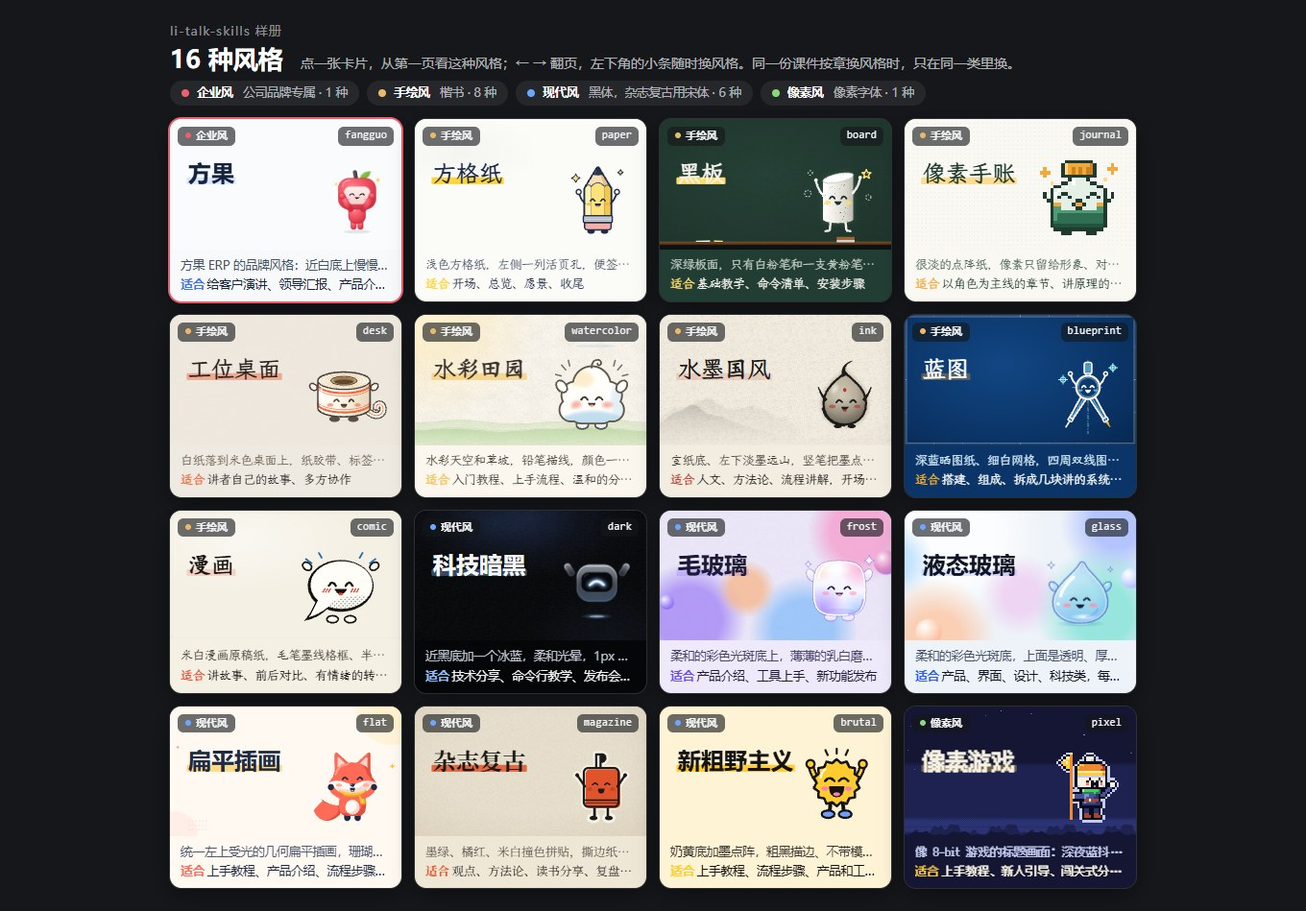
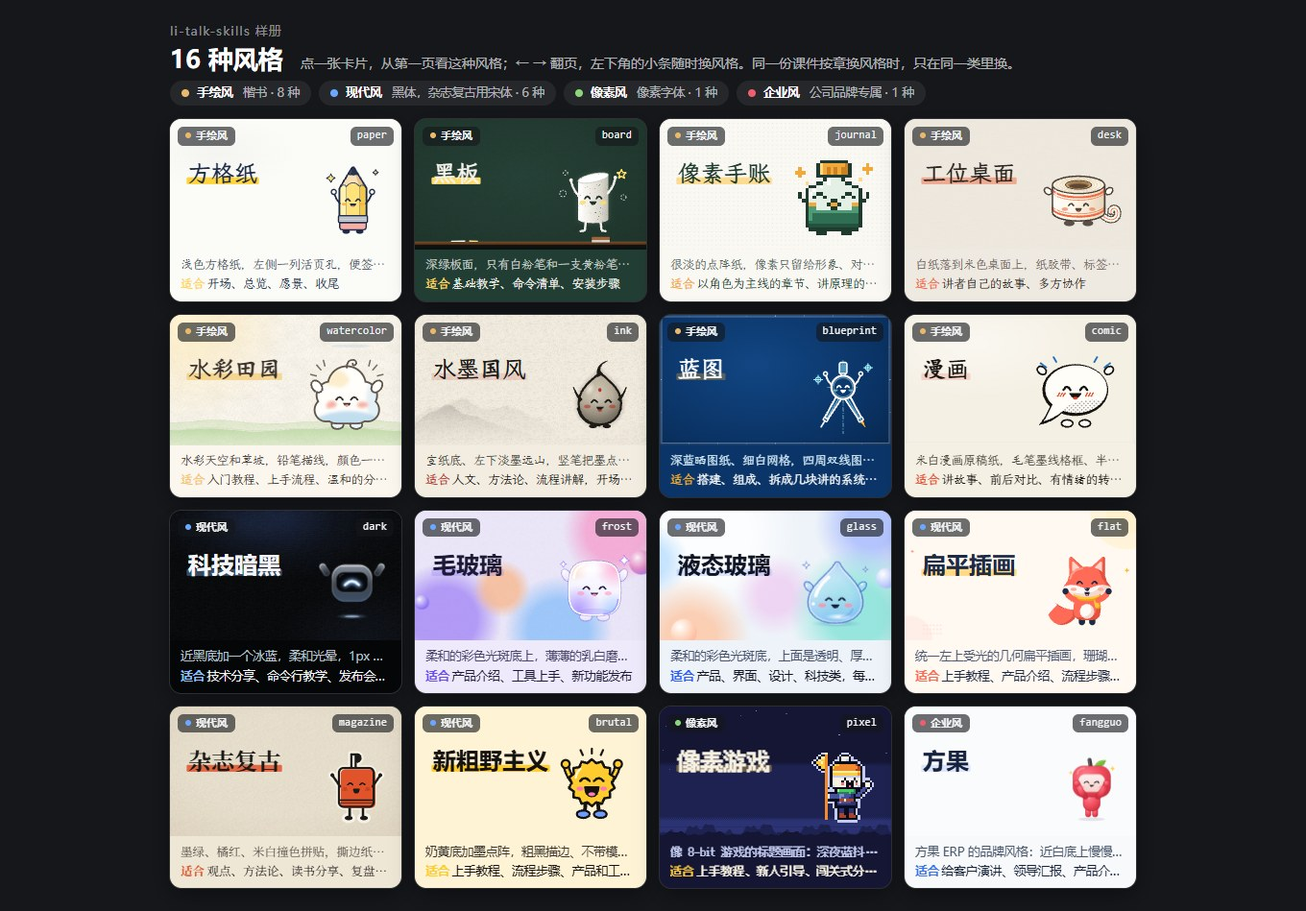
方果风（企业风）放到最后弱化：风格清单、styles 命令、样册总览和换风格小条、使用说明、风格说明、README 都按手绘风、现代风、像素风、企业风排；样册里去掉方果卡片的红框强调；重拍样册首图

diff --git a/skills/li-talk-skills/template/gallery.html b/skills/li-talk-skills/template/gallery.html
@@ -9,7 +9,7 @@
        地址带 ?scene=<键名>、这种风格有自己的样板时，样册只放它自己的样板页（见下面引入章节前后的两段小脚本）。
      - 通用样板页 samples/samples.js、.css（封面、清单、步骤、结尾 4 页）：只用通用组件，哪种风格都能用。
        地址不带 ?scene=，或者这种风格还没有自己的样板时放它；它保持通用，不加只有某种风格认的东西。
-     直接打开（地址不带 ?scene=、?selftest、#页/拍）先显示风格总览：每种风格一张卡片，按类分组（企业风、手绘风、现代风、像素风），点一张就用 ?scene=<键名> 从第一页看。
+     直接打开（地址不带 ?scene=、?selftest、#页/拍）先显示风格总览：每种风格一张卡片，按类分组（手绘风、现代风、像素风、企业风），点一张就用 ?scene=<键名> 从第一页看。
      地址加 ?scene=<键名> 换成那个风格看；左下角的小条点一下也是这样换（一律回到第一页、播开场），点「全部风格」回到总览。
      不写 li-talk-mascot：形象跟着风格走（每种风格用自己的默认形象，见 scenes/index.json）。
      引入顺序照入口模板 index.html（接口约定 G）；通用样板页放在两对「章节」注释之间，不开浏览器的 check 读模板目录时查的是它们；
@@ -63,7 +63,7 @@
   .gl-bar .gl-hint{display:none}
 }
 
-/* 风格总览：直接打开样册时的首页，铺满窗口、盖在课件上面；每种风格一张卡片，按类分组（企业风、手绘风、现代风、像素风）。
+/* 风格总览：直接打开样册时的首页，铺满窗口、盖在课件上面；每种风格一张卡片，按类分组（手绘风、现代风、像素风、企业风）。
    卡片套 data-scene，风格的 CSS 变量（底色、墨色、强调色、字体）直接生效；上半截是缩小的 1920×1080 舞台，
    放这种风格的背景层（从引擎建好的背景层复制）、风格名和形象；下半截写「样子」和「适合讲什么」。
    类名用 sv- 开头，免得撞上风格自己的类名（液态玻璃用了 gl-） */
@@ -119,7 +119,6 @@
 .sv-grid .sv-look,.sv-grid .sv-fit{display:block;overflow:hidden;white-space:nowrap;text-overflow:ellipsis}
 .sv-tag{position:absolute;left:8px;top:8px;padding:1px 8px 2px;border-radius:6px;background:rgba(20,22,26,.62);color:#F1F3F5;font:600 11px/1.5 system-ui,"Microsoft YaHei",sans-serif}
 .sv-tag::before{content:"";display:inline-block;width:6px;height:6px;margin-right:5px;border-radius:50%;background:var(--fc);vertical-align:1px}
-.sv-card.sv-corp{box-shadow:0 0 0 2px #ED5E6E,0 8px 22px rgba(0,0,0,.35)}
 @media (max-width:999px){.sv-grid{grid-template-columns:repeat(3,minmax(0,1fr))}}
 @media (max-width:699px){.sv-grid{grid-template-columns:repeat(2,minmax(0,1fr))}}
 @media (max-width:420px){.sv-grid{grid-template-columns:1fr}}
@@ -201,7 +200,6 @@ if (window.LI_TALK_SAMPLES) (function (b) {
 /* 风格总览用的风格说明：从 scenes/index.json 抄来的 key、label、family、mascot、look、fit。
    样册是双击打开的本地文件，不能 fetch，所以写在这里；改了 index.json 要同步改这里（test/gallery.test.mjs 会对照） */
 window.LI_TALK_STYLES = [
-  {"key":"fangguo","label":"方果","family":"corp","mascot":"fangfang","look":"方果 ERP 的品牌风格：近白底上慢慢流动的淡蓝柔光和网格，纯白大圆角卡片，品牌蓝主色，大气的大数字和图表，左上角带方果 Logo","fit":"给客户演讲、领导汇报、产品介绍、经营数据"},
   {"key":"paper","label":"方格纸","family":"hand","mascot":"jianjian","look":"浅色方格纸，左侧一列活页孔，便签翘起纸角","fit":"开场、总览、愿景、收尾"},
   {"key":"board","label":"黑板","family":"hand","mascot":"shasha","look":"深绿板面，只有白粉笔和一支黄粉笔，翻页用板擦","fit":"基础教学、命令清单、安装步骤"},
   {"key":"journal","label":"像素手账","family":"hand","mascot":"diandian","look":"很淡的点阵纸，像素只留给形象、对话框和节拍格","fit":"以角色为主线的章节、讲原理的示意图"},
@@ -216,12 +214,13 @@ window.LI_TALK_STYLES = [
   {"key":"flat","label":"扁平插画","family":"modern","mascot":"xiaoye","look":"统一左上受光的几何扁平插画，珊瑚、明黄、墨蓝三组配色，组件右下一道深色厚度、投影落向右下","fit":"上手教程、产品介绍、流程步骤、新人或非技术听众"},
   {"key":"magazine","label":"杂志复古","family":"modern","mascot":"xiaoqian","look":"墨绿、橘红、米白撞色拼贴，撕边纸、胶带、套印错位，宋体大标题","fit":"观点、方法论、读书分享、复盘总结"},
   {"key":"brutal","label":"新粗野主义","family":"modern","mascot":"pengpeng","look":"奶黄底加墨点阵，粗黑描边、不带模糊的硬阴影，黄粉蓝三种色块，卡片「砸」下来","fit":"上手教程、流程步骤、产品和工具介绍、内部分享"},
-  {"key":"pixel","label":"像素游戏","family":"pixel","mascot":"xiaoqi","look":"像 8-bit 游戏的标题画面：深夜蓝抖动夜空和远山，全页对齐 4px 网格、只用 16 色，金色像素大标题","fit":"上手教程、新人引导、闯关式分步、轻松的团队分享"}
+  {"key":"pixel","label":"像素游戏","family":"pixel","mascot":"xiaoqi","look":"像 8-bit 游戏的标题画面：深夜蓝抖动夜空和远山，全页对齐 4px 网格、只用 16 色，金色像素大标题","fit":"上手教程、新人引导、闯关式分步、轻松的团队分享"},
+  {"key":"fangguo","label":"方果","family":"corp","mascot":"fangfang","look":"方果 ERP 的品牌风格：近白底上慢慢流动的淡蓝柔光和网格，纯白大圆角卡片，品牌蓝主色，大气的大数字和图表，左上角带方果 Logo","fit":"给客户演讲、领导汇报、产品介绍、经营数据"}
 ];
 </script>
 <script>
 /* 样册的两样东西（都不属于课件，自检模式 ?selftest 下都不放）：
-   1. 风格总览：地址不带 ?scene=、?selftest、#页/拍 时显示，盖在课件上面。每种风格一张卡片，按类分组（企业风、手绘风、现代风、像素风）；
+   1. 风格总览：地址不带 ?scene=、?selftest、#页/拍 时显示，盖在课件上面。每种风格一张卡片，按类分组（手绘风、现代风、像素风、企业风）；
       点一张就用 ?scene=<键名> 重新打开，从第一页看（带开场）。开着总览时课件不接键盘和点击，
       也不让引擎往地址里写 #页/拍（不然刷新一下总览就没了）。
    2. 换风格的小条：点一个风格，就用 ?scene=<键名> 重新打开，回到第一页、播开场（地址里的 #页/拍 去掉）；
@@ -234,7 +233,7 @@ window.LI_TALK_STYLES = [
   var I = Deck._, FAMILY = I.FAMILY || {};
   var keys = Object.keys(I.SCENES).filter(function (k) { return k !== 'plain'; });
   if (!keys.length) return;
-  var FAMS = [['corp', '企业风', '公司品牌专属'], ['hand', '手绘风', '楷书'], ['modern', '现代风', '黑体，杂志复古用宋体'], ['pixel', '像素风', '像素字体']];
+  var FAMS = [['hand', '手绘风', '楷书'], ['modern', '现代风', '黑体，杂志复古用宋体'], ['pixel', '像素风', '像素字体'], ['corp', '企业风', '公司品牌专属']];
   // 在线编辑（serve 打开的，地址带 ?edit=口令）时，换风格、回总览都带着口令，不然一换风格就退出编辑了
   var edit = qs.get('edit'), keep = edit ? '&edit=' + encodeURIComponent(edit) : '';
   var home = location.href.split(/[?#]/)[0] + (edit ? '?edit=' + encodeURIComponent(edit) : '');   // 不带 scene、# 的地址：打开就是总览
@@ -274,7 +273,7 @@ window.LI_TALK_STYLES = [
     head.appendChild(el('h1', '', known.length + ' 种风格'));
     head.appendChild(el('p', '', '点一张卡片，从第一页看这种风格；← → 翻页，左下角的小条随时换风格。同一份课件按章换风格时，只在同一类里换。'));
     wrap.appendChild(head);
-    // 一屏放下全部风格：所有卡片排在一个网格里，按类的顺序（企业风、手绘风、现代风、像素风），每张左上角标出属于哪一类；
+    // 一屏放下全部风格：所有卡片排在一个网格里，按类的顺序（手绘风、现代风、像素风、企业风），每张左上角标出属于哪一类；
     // 列数按窗口算（见下面的 fit），窗口太矮放不下时才滚动
     var legend = el('div', 'sv-legend');
     var grid = el('div', 'sv-grid');

diff --git a/skills/li-talk-skills/references/styles.md b/skills/li-talk-skills/references/styles.md
@@ -23,10 +23,10 @@
 
 | 家 | 字体 | 这一版有的风格 |
 |---|---|---|
-| 企业风 | 系统黑体，数字用 Bahnschrift / DIN | 方果 `fangguo`（公司品牌专属，只能单独用） |
 | 手绘风 | 楷书（霞鹜文楷） | 方格纸 `paper`、黑板 `board`、像素手账 `journal`、工位桌面 `desk`、水彩田园 `watercolor`、水墨国风 `ink`、蓝图 `blueprint`、漫画 `comic` |
 | 现代风 | 系统黑体（杂志复古用宋体），命令用等宽字 | 科技暗黑 `dark`、毛玻璃 `frost`、液态玻璃 `glass`、扁平插画 `flat`、杂志复古 `magazine`、新粗野主义 `brutal` |
 | 像素风 | 中文像素字体（缝合像素字体，选了才带进课件） | 像素游戏 `pixel` |
+| 企业风 | 系统黑体，数字用 Bahnschrift / DIN | 方果 `fangguo`（公司品牌专属，只能单独用） |
 
 像素手账 `journal` 名字里有「像素」，但正文是楷书，属于手绘风；整页像素风的是像素风的像素游戏 `pixel`，它的字体和 4px 网格自成一套，只能单独用。
 
@@ -247,6 +247,26 @@
 - **动效**：第一次打开时有约 1 秒的开场（主题行的章节块砸下、标题一个字一个字砸下来、节拍按钮盖下）；卡片、小格、步骤、终端、截图、命令从上面「砸」下来，落地压进阴影再弹回、两侧甩出冲击线，已经落定的卡片被震一下；标签啪地拍上，正文弹起；悬停时组件离阴影远一点、朝鼠标那侧歪一点，按下压进阴影；复制时按钮按到底闪黄、贴上「已复制」；退一拍时卡片被捏起来往上抛走；翻页时旧页被一把推开、新页冲进来。
 - **自带出场名**：`slam`、`smash`、`slap`、`snap`。只在这种风格里认，页面里别写（换风格会报提醒），风格会自己默认用。
 
+### 像素风
+
+#### 像素游戏 `pixel`
+
+- **样子**：一块 8-bit 游戏的标题画面。深夜蓝的抖动渐变夜空、几颗像素星星、两层像素远山；所有东西对齐同一张 4px 网格，只用 16 色。字是中文像素字体（缝合像素字体）；大标题是金色抖动字面配深色字板和锈红厚度；卡片是 RPG 窗口（暖白像素框、四角切一格、右下硬阴影）；重点词是金色加一格像素下划线；节拍指示是经验条；可复制的命令是一颗像素按钮。
+- **适合**：上手教程、新人引导、闯关式分步、轻松的团队分享。
+- **不适合**：严肃汇报、财务数据、文字很密的页。
+- **脾气**：
+  - 字大：正文、卡片标题、命令、标签都是 48px（一个字点占 4px 一格），大标题和金句 96px；主题行、页码、小格编号、图注、「已复制」、形象气泡是 24px。大标题 15 个字以内，长了会换行压到一句话解释。一句话解释在 y 220，30 字以内。内容从 y 290 左右开始。卡片宽 W 时一行约 (W−80)÷48 个字。命令一个英文字符约 24px，一行 60 个字符以内。从别的风格换过来一定重跑自检。
+  - 页面里自己写字号时尽量用 12 的倍数（24、48、96）：像素字体是 12px 点阵，别的字号点会大小不匀。
+  - 只有 16 色。卡片颜色 `t-*` 只换窗框颜色，窗口本身都是深蓝。页面 CSS 别再引入别的颜色、渐变、圆角。
+  - 自成一家：字体、网格自成一套，不和手绘风、现代风混用。
+  - 课件里带一份缝合像素字体（`vendor/fonts/pixel/`，约 679KB，OFL 许可），`new` 选了 pixel 时自动带上。搭好骨架后再换成像素游戏（第 6 节），第 b 步还要把 `〈本 skill 目录〉/template/vendor/fonts/pixel/` 整个复制到 `〈课件目录〉/vendor/fonts/pixel/`，不然字会退回系统黑体、变宽、可能溢出。
+  - 深色底投到幕布上容易发灰：正文已经用暖白，每段字带一格深色硬投影。
+  - 窗口缩放不是整数倍时，像素会被重新采样，不再绝对锐利。舞台缩得很小（很小的窗口、手机竖屏阅读模式）时，线稿和圈注退回普通直线。
+  - 页码和经验条的禁区是 x 1300–1872、y 12–84。
+- **默认形象**：小旗 `xiaoqi`（戴毛线帽、背三角旗的像素小向导；浅紫亮边画在像素里，引擎不再加描边）。
+- **动效**：第一次打开时有约 1 秒的开场（星星分三步亮起、远山逐格升起、大标题一个字一个字掉下来落位、角上一闪，第 0 拍逐字打出）。所有出场都逐格走、不做半透明的平滑过渡：卡片类组件像 RPG 窗口先横向拉开、再竖向展开，字逐字打出；金句掉下来、标签蹦出来；重点词反白闪两下后落定；进一拍时经验条灌满一格；复制时命令按钮顶出一枚旋转的像素金币；退一拍时窗口压扁收没；翻页时新页逐格从一边擦出来。
+- **自带出场名**：`pxwin`、`pxtype`、`pxdrop`、`pxpop`、`pxtitle`。只在这种风格里认，页面里别写（换风格会报提醒），风格会自己默认用。
+
 ### 企业风
 
 #### 方果 `fangguo`
@@ -293,26 +313,6 @@
 - **真图和示意图**：真截图用 `figure.shot`，图注写「真图：……」；没有真图的界面（对话窗、终端、样册、演讲者视图、课件目录）用 `.fg-win`、`.term` 画出来，在右上角外沿贴一枚 `<span class="abs fg-stamp">示意</span>`，下面写一句 `<p class="abs fg-capt"><b>示意</b>这张图是什么</p>`。每张图都要有一句说明。
 - **版式工具**：出血底板 `<i class="fg-bleed" hidden></i>` 有四种——默认右边一块浅蓝、`fg-left` 左边、`fg-slant` 右边一块斜切的浅蓝、`fg-wash` 整屏一层淡蓝晕染（金句页用）；金句 `<p class="fg-quote">…<span class="fg-hl">词</span>…</p>`（112px 深墨色大字，上面一道品牌蓝渐变短线，关键词是品牌蓝渐变，一页一句）；一组淡蓝同心细圆环装饰 `<i class="fg-deco"></i>`（不放字）。
   - 指标卡 `.fg-kpi`、渐变圆角图标 `.fg-ico[data-fg-ico="box"]`（`data-fg-tone`：blue、teal、coral、purple、amber、red）、白色界面窗 `.fg-win`（加 `fg-float` 是倾斜 2° 的浮窗）、折角标签 `.fg-fold`、小胶囊 `.fg-chip`、横小卡 `.fg-mini`、功能卡 `.fg-feats > .fg-fc`、平台横栏 `.fg-plat`、流程清单 `.fg-flow > .fg-step`（当前一步点亮）、封面 `.fg-cover`、章节页 `.fg-chapter` 加 `.fg-bigno`、关于我们 `.fg-about` 加二维码卡 `.fg-qr[data-fg-qr="wechat|douyin|business"]` 和联系方式 `.fg-contact`。
-
-### 像素风
-
-#### 像素游戏 `pixel`
-
-- **样子**：一块 8-bit 游戏的标题画面。深夜蓝的抖动渐变夜空、几颗像素星星、两层像素远山；所有东西对齐同一张 4px 网格，只用 16 色。字是中文像素字体（缝合像素字体）；大标题是金色抖动字面配深色字板和锈红厚度；卡片是 RPG 窗口（暖白像素框、四角切一格、右下硬阴影）；重点词是金色加一格像素下划线；节拍指示是经验条；可复制的命令是一颗像素按钮。
-- **适合**：上手教程、新人引导、闯关式分步、轻松的团队分享。
-- **不适合**：严肃汇报、财务数据、文字很密的页。
-- **脾气**：
-  - 字大：正文、卡片标题、命令、标签都是 48px（一个字点占 4px 一格），大标题和金句 96px；主题行、页码、小格编号、图注、「已复制」、形象气泡是 24px。大标题 15 个字以内，长了会换行压到一句话解释。一句话解释在 y 220，30 字以内。内容从 y 290 左右开始。卡片宽 W 时一行约 (W−80)÷48 个字。命令一个英文字符约 24px，一行 60 个字符以内。从别的风格换过来一定重跑自检。
-  - 页面里自己写字号时尽量用 12 的倍数（24、48、96）：像素字体是 12px 点阵，别的字号点会大小不匀。
-  - 只有 16 色。卡片颜色 `t-*` 只换窗框颜色，窗口本身都是深蓝。页面 CSS 别再引入别的颜色、渐变、圆角。
-  - 自成一家：字体、网格自成一套，不和手绘风、现代风混用。
-  - 课件里带一份缝合像素字体（`vendor/fonts/pixel/`，约 679KB，OFL 许可），`new` 选了 pixel 时自动带上。搭好骨架后再换成像素游戏（第 6 节），第 b 步还要把 `〈本 skill 目录〉/template/vendor/fonts/pixel/` 整个复制到 `〈课件目录〉/vendor/fonts/pixel/`，不然字会退回系统黑体、变宽、可能溢出。
-  - 深色底投到幕布上容易发灰：正文已经用暖白，每段字带一格深色硬投影。
-  - 窗口缩放不是整数倍时，像素会被重新采样，不再绝对锐利。舞台缩得很小（很小的窗口、手机竖屏阅读模式）时，线稿和圈注退回普通直线。
-  - 页码和经验条的禁区是 x 1300–1872、y 12–84。
-- **默认形象**：小旗 `xiaoqi`（戴毛线帽、背三角旗的像素小向导；浅紫亮边画在像素里，引擎不再加描边）。
-- **动效**：第一次打开时有约 1 秒的开场（星星分三步亮起、远山逐格升起、大标题一个字一个字掉下来落位、角上一闪，第 0 拍逐字打出）。所有出场都逐格走、不做半透明的平滑过渡：卡片类组件像 RPG 窗口先横向拉开、再竖向展开，字逐字打出；金句掉下来、标签蹦出来；重点词反白闪两下后落定；进一拍时经验条灌满一格；复制时命令按钮顶出一枚旋转的像素金币；退一拍时窗口压扁收没；翻页时新页逐格从一边擦出来。
-- **自带出场名**：`pxwin`、`pxtype`、`pxdrop`、`pxpop`、`pxtitle`。只在这种风格里认，页面里别写（换风格会报提醒），风格会自己默认用。
 
 ---
 

diff --git a/README.en.md b/README.en.md
@@ -27,13 +27,13 @@ Hand your topic, notes or script to the AI and get an HTML deck you can present 
 
 ![The gallery home page: all 16 styles on one screen](docs/images/hero.jpg)
 
-<sub>The gallery home page: 16 styles in four groups (corporate, hand-drawn, modern, pixel) on one screen, each with its own mascot. Click a card to step through that style's sample slides.</sub>
+<sub>The gallery home page: 16 styles in four groups (hand-drawn, modern, pixel, corporate) on one screen, each with its own mascot. Click a card to step through that style's sample slides.</sub>
 
 ## Highlights
 
 - **One sentence to start**: a bare topic, scattered notes and screenshots, or a finished script all work. The AI follows a nine-step flow (script, style, layout, animation) and stops at five checkpoints (outline, script, style, first 3 slides, final review) for your OK.
 - **Live editing**: double-click to change text, drag and scale blocks, change font size, colour and beat, undo and redo, all in the browser. Click "Notify AI" and the AI writes the changes back into the source with class names and chapter CSS, re-runs the self-check, and the page reloads.
-- **16 styles, 16 mascots**: four families (corporate, hand-drawn, modern, pixel). Not just colour swaps: each style has its own layouts, components, beat animations, and a mascot that walks around and talks.
+- **16 styles, 16 mascots**: four families (hand-drawn, modern, pixel, corporate). Not just colour swaps: each style has its own layouts, components, beat animations, and a mascot that walks around and talks.
 - **Ready to present**: content appears beat by beat and fades once covered; the presenter view shows notes, the next beat, a timer and rehearsal mode; blackout, laser pointer and slide overview; clickers just work.
 - **Self-check at 5 screen sizes**: a real browser steps through every slide and beat from 1920×1080 down to a phone in portrait, checking overflow, overlap, contrast and font size, and writes a report that even models without vision can act on.
 - **Offline, zero dependencies**: plain HTML; double-click `index.html` to present, no network, nothing to install. Phones switch to a vertical reading mode automatically.
@@ -97,12 +97,6 @@ Four families. A deck can switch styles by chapter, but only within one family. 
 
 A style is more than a color scheme: its layouts, structure and what happens on each beat all follow its own look. Graph Paper corrects in red pen, Blueprint draws an assembly list, Comic tells it in four panels, Pixel Game walks a level map. Each style turns the same topic into 5–6 sample slides, and the AI writes your deck after the samples of the style you pick. The images below show one signature slide per style.
 
-### Corporate (company brand)
-
-| Look | Style | Default mascot | Good for |
-|---|---|---|---|
-| <img src="docs/images/styles/fangguo.jpg" width="240" alt="Fangguo"> | **Fangguo** `fangguo` | Fang Xiaoguo: the company IP, a little fruit with a rounded square head | Client pitches, reports to management, product intros, business numbers |
-
 ### Hand-drawn (Kai script)
 
 | Look | Style | Default mascot | Good for |
@@ -132,6 +126,12 @@ A style is more than a color scheme: its layouts, structure and what happens on 
 | Look | Style | Default mascot | Good for |
 |---|---|---|---|
 | <img src="docs/images/styles/pixel.jpg" width="240" alt="Pixel Game"> | **Pixel Game** `pixel` | Xiaoqi: a pixel guide carrying a pennant | Tutorials, onboarding, level-by-level steps, casual team talks |
+
+### Corporate (company brand)
+
+| Look | Style | Default mascot | Good for |
+|---|---|---|---|
+| <img src="docs/images/styles/fangguo.jpg" width="240" alt="Fangguo"> | **Fangguo** `fangguo` | Fang Xiaoguo: the company IP, a little fruit with a rounded square head | Client pitches, reports to management, product intros, business numbers |
 
 ## Presenting
 

diff --git a/README.md b/README.md
@@ -27,13 +27,13 @@
 
 ![样册首页：16 种风格一屏看完](docs/images/hero.jpg)
 
-<sub>样册首页：16 种风格分企业风、手绘风、现代风、像素风四类，一屏看完，每种都有自己的小形象；点一张卡片就从第一页看这种风格的样板。</sub>
+<sub>样册首页：16 种风格分手绘风、现代风、像素风、企业风四类，一屏看完，每种都有自己的小形象；点一张卡片就从第一页看这种风格的样板。</sub>
 
 ## 亮点
 
 - **一句话生成**：只有一个主题、零散笔记和截图、或现成讲稿，三种起点都能开工。AI 按九步流程写讲稿、选风格、排版、加动效，在提纲、讲稿、风格、试做、过稿五处停下来等你确认。
 - **在线编辑**：在浏览器里双击改字、拖动缩放、改字号颜色和拍号，撤销重做；改完点「通知 AI 修改」，AI 用类名和章节样式写回源码、跑完自检，页面自动刷新。
-- **16 种风格，16 个形象**：企业风、手绘风、现代风、像素风四大家族。不是换配色：每种风格有自己的版式、组件、翻页动作，和一个会走动、会说话的小形象。
+- **16 种风格，16 个形象**：手绘风、现代风、像素风、企业风四大家族。不是换配色：每种风格有自己的版式、组件、翻页动作，和一个会走动、会说话的小形象。
 - **上台就能讲**：一拍一拍地出内容，讲过的自动变淡；演讲者视图看讲词、预告下一拍、计时彩排；黑屏、激光笔、总览跳页，翻页笔直接用。
 - **5 种尺寸自检**：用真浏览器按 1920×1080 到手机竖屏逐页逐拍检查溢出、遮挡、对比度和字号，出中文报告；看不了图的模型也能照着改干净。
 - **离线、零依赖**：纯 HTML，双击 `index.html` 就能放映，不联网、不装软件；手机上自动变成竖屏阅读模式。
@@ -97,12 +97,6 @@ AI 会先问你手上有什么，从三种起点出发：
 
 每种风格不只是换配色：版式、结构和每一拍发生的事都按它自己的样子来，比如方格纸用红笔订正，蓝图画装配清单，漫画画四格，像素游戏走关卡地图。每种风格都把同一个主题做成了 5–6 页样板（方果是公司品牌风格，做了 10 页，含 5 个招牌交互），AI 写课件时照你选的那种写。下表里的图是每种风格的一页招牌页。
 
-### 企业风（公司品牌专属）
-
-| 样子 | 风格 | 默认形象 | 适合讲什么 |
-|---|---|---|---|
-| <img src="docs/images/styles/fangguo.jpg" width="240" alt="方果"> | **方果** `fangguo` | 方小果：公司 IP「方小果」，圆角方脑袋的小果子 | 给客户演讲、领导汇报、产品介绍、经营数据 |
-
 ### 手绘风（楷书）
 
 | 样子 | 风格 | 默认形象 | 适合讲什么 |
@@ -132,6 +126,12 @@ AI 会先问你手上有什么，从三种起点出发：
 | 样子 | 风格 | 默认形象 | 适合讲什么 |
 |---|---|---|---|
 | <img src="docs/images/styles/pixel.jpg" width="240" alt="像素游戏"> | **像素游戏** `pixel` | 小旗：背一面三角旗的像素小向导 | 上手教程、新人引导、闯关式分步、轻松的团队分享 |
+
+### 企业风（公司品牌专属）
+
+| 样子 | 风格 | 默认形象 | 适合讲什么 |
+|---|---|---|---|
+| <img src="docs/images/styles/fangguo.jpg" width="240" alt="方果"> | **方果** `fangguo` | 方小果：公司 IP「方小果」，圆角方脑袋的小果子 | 给客户演讲、领导汇报、产品介绍、经营数据 |
 
 ## 讲的时候
 

diff --git a/skills/li-talk-skills/SKILL.md b/skills/li-talk-skills/SKILL.md
@@ -55,7 +55,7 @@ node "<本 skill 目录>/scripts/li-talk.mjs" guide "<课件目录>"
 
 这是最小可用版，只承诺下面这些：
 
-- **16 种风格**，分四类：企业风 1 种（方果 `fangguo`，公司品牌专属），手绘风 8 种（方格纸 `paper`、黑板 `board`、像素手账 `journal`、工位桌面 `desk`、水彩田园 `watercolor`、水墨国风 `ink`、蓝图 `blueprint`、漫画 `comic`），现代风 6 种（科技暗黑 `dark`、毛玻璃 `frost`、液态玻璃 `glass`、扁平插画 `flat`、杂志复古 `magazine`、新粗野主义 `brutal`），像素风 1 种（像素游戏 `pixel`）。
+- **16 种风格**，分四类：手绘风 8 种（方格纸 `paper`、黑板 `board`、像素手账 `journal`、工位桌面 `desk`、水彩田园 `watercolor`、水墨国风 `ink`、蓝图 `blueprint`、漫画 `comic`），现代风 6 种（科技暗黑 `dark`、毛玻璃 `frost`、液态玻璃 `glass`、扁平插画 `flat`、杂志复古 `magazine`、新粗野主义 `brutal`），像素风 1 种（像素游戏 `pixel`），另有企业风 1 种（方果 `fangguo`，公司品牌专属）。
 - **16 个形象**：尖尖 `jianjian`（方格纸）、沙沙 `shasha`（黑板）、点点 `diandian`（像素手账）、卷卷 `juanjuan`（工位桌面）、朵朵 `duoduo`（水彩田园）、墨丸 `mowan`、圈圈 `quanquan`、叨叨 `daodao`、微光 `weiguang`、小雾 `xiaowu`、透透 `toutou`、小页 `xiaoye`、小铅 `xiaoqian`、砰砰 `pengpeng`、小旗 `xiaoqi`、方小果 `fangfang`（方果）；其余每种风格有自己的默认形象，`styles` 会列出来。
 - **样板页两套**：每种风格自己的样板页（`template/samples/<键名>.js`，同一个主题按这种风格的版式和每拍动作做 5–6 页（方果 10 页），用风格的专用组件），加 5 页通用样板（封面、清单、步骤、关于我、结尾）。说明和对照表在 `references/templates.md`。
 - **课件本身**：按拍出现、讲过的拍变淡、主题行、重点词、圈注、手绘线和箭头、卡片、步骤、对比、终端窗口、点击复制、截图位（点开看大图）、形象每拍走到内容旁、演讲者视图（S）、计时（T / R）、彩排（演讲者视图里按 H，记每页用时、标出超时的页）、总览跳页（O）、黑屏（B）、激光笔（L）、底部进度条、全屏（F）、竖屏阅读模式、刷新不丢位置、最后一页自动署名。双击 `index.html` 离线打开。
